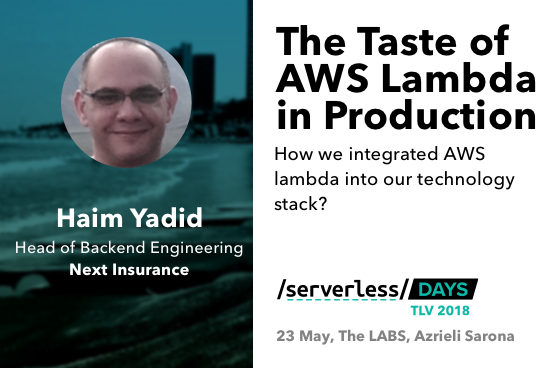
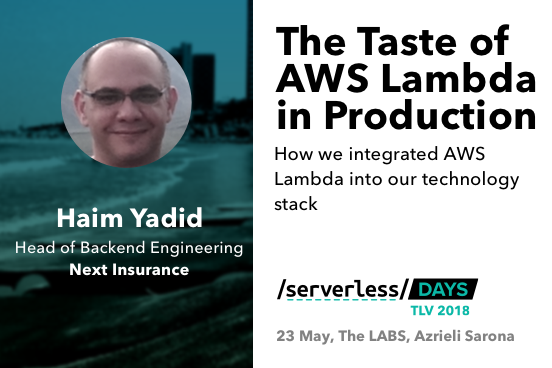
Add Eduardo's session

Changed region(s): [[0.4928, 0.4484, 0.9547, 0.538], [0.5851, 0.538, 0.6159, 0.5679]]

diff --git a/src/html/sessions/eduardo-laureano-real-world-serverless-patterns-and-caveats.html b/src/html/sessions/eduardo-laureano-real-world-serverless-patterns-and-caveats.html
@@ -3,7 +3,7 @@
     <head>
         <title>Serverless Days TLV</title>
         <meta charset="utf-8">
-        <meta name="description" content="Haim Yadid - The Taste of AWS Lambda in Production - How we integrated AWS Lambda into our technology stack">
+        <meta name="description" content="Eduardo Laureano - Real world serverless patterns and caveats - Learn from enterprise customers production examples how to leverage serverless in your applications">
 
         <!-- Global site tag (gtag.js) - Google Analytics -->
         <script async src="https://www.googletagmanager.com/gtag/js?id=UA-100715288-4"></script>
@@ -27,26 +27,26 @@
         </style>
 
         <!-- Alternative URLs: serverless.org.il, serverlessdaystlv.io -->
-        <link rel="canonical" href="https://tlv.serverlessdays.io/sessions/haim-yadid-the-taste-of-aws-lambda-in-production.html" />
+        <link rel="canonical" href="https://tlv.serverlessdays.io/sessions/eduardo-laureano-real-world-serverless-patterns-and-caveats.html" />
 
         <!-- Facebook metadata -->
-        <meta property="og:title"        content="Haim Yadid - The Taste of AWS Lambda in Production"/>
+        <meta property="og:title"        content="Eduardo Laureano - Real world serverless patterns and caveats"/>
         <meta property="og:type"         content="website" />
-        <meta property="og:description"  content="How we integrated AWS Lambda into our technology stack"/>
-        <meta property="og:image"        content="https://tlv.serverlessdays.io/static/sharing-images/haim-yadid-the-taste-of-aws-lambda-in-production-facebook-sharing-image.png">
+        <meta property="og:description"  content="Learn from enterprise customers production examples how to leverage serverless in your applications"/>
+        <meta property="og:image"        content="https://tlv.serverlessdays.io/static/sharing-images/eduardo-laureano-real-world-serverless-patterns-and-caveats-facebook-sharing-image.png">
         <meta property="fb:app_id"       content="166257407404434"/>
-        <meta property="og:url"          content="https://tlv.serverlessdays.io/sessions/haim-yadid-the-taste-of-aws-lambda-in-production.html"/>
-        <meta property="og:image:alt"    content="Haim Yadid - The Taste of AWS Lambda in Production"/>
+        <meta property="og:url"          content="https://tlv.serverlessdays.io/sessions/eduardo-laureano-real-world-serverless-patterns-and-caveats.html"/>
+        <meta property="og:image:alt"    content="Eduardo Laureano - Real world serverless patterns and caveats"/>
         <meta property="og:site_name"    content="Serverless Days TLV" />
         <meta property="og:image:width"  content="1200" />
         <meta property="og:image:height" content="627" />
 
 
         <!-- Twitter metadata -->
-        <meta name="twitter:title"       content="Haim Yadid - The Taste of AWS Lambda in Production">
+        <meta name="twitter:title"       content="Eduardo Laureano - Real world serverless patterns and caveats">
         <meta name="twitter:site"        content="@SrvrlessDaysTLV">
-        <meta name="twitter:description" content="How we integrated AWS Lambda into our technology stack"/>
-        <meta name="twitter:image"       content="https://tlv.serverlessdays.io/static/sharing-images/haim-yadid-the-taste-of-aws-lambda-in-production-twitter-sharing-image.png">
+        <meta name="twitter:description" content="Learn from enterprise customers production examples how to leverage serverless in your applications"/>
+        <meta name="twitter:image"       content="https://tlv.serverlessdays.io/static/sharing-images/eduardo-laureano-real-world-serverless-patterns-and-caveats-twitter-sharing-image.png">
         <meta name="twitter:card"        content="summary_large_image"/>
 
         <!-- JSON-LD for search engines -->
@@ -88,8 +88,8 @@
                "performer":[
                   {
                      "@type":"Person",
-                     "image":"https://tlv.serverlessdays.io/static/profile-images/haim-yadid-profile.jpg",
-                     "name":"Haim Yadid",
+                     "image":"https://tlv.serverlessdays.io/static/profile-images/eduardo-laureano-profile.jpg",
+                     "name":"Eduardo Laureano",
                   }
                ]
             }
@@ -159,20 +159,20 @@
 
         <div id="session" class="relative w-100 bg-black-80 pt2 pt0-ns mt0">
             <div class="mw6 mw7-ns center avenir near-white pt3 pt4-ns ph2 pb2">
-                <h2 class="f3 f2-ns tl">Haim Yadid: The Taste of AWS Lambda in Production</h2>
+                <h2 class="f3 f2-ns tl">Eduardo Laureano: Real world serverless patterns and caveats</h2>
 
                 <div class="mw9 center ph3-ns">
                     <div class="cf ph2-ns">
                         <div class="fl w-100 w-50-ns pa2" style="max-width: 300px; min-width: 300px">
                             <div class="pv4">
-                                <img src="../static/profile-images/haim-yadid-profile.jpg" alt="Haim Yadid">
+                                <img src="../static/profile-images/eduardo-laureano-profile.jpg" alt="Eduardo Laureano">
                             </div>
                         </div>
                         <div class="fl w-100 w-50-ns pa2">
                             <div class="pv4">
-                                <h2>Haim Yadid, Head of Backend Engineering at Next Insurance </h2>
+                                <h2>Eduardo Laureano, Principal PM Lead @ Azure Functions</h2>
                                 <p class="lh-copy measure f5 white lh-copy">
-                                   A software engineer with over 25 years of experience in various technology fields: software development, team management, software architecture, HPC and algorithmic research. Currently leading the backend engineering group in Next Insurance. On my spare time I am also one of the organizers of Java.IL, the Israeli Java user group.
+                                   Beyond building serverless products at Azure, Eduardo has been at Microsoft for over 15 years, on several services such as Bing (building ML classifiers) and many others. Also swims, bikes and runs occasionally :-)
                                 </p>
                             </div>
                         </div>
@@ -180,10 +180,11 @@
                 </div>   
 
 
-                <h3 class="lh-copy">How we integrated AWS Lambda into our technology stack</h3>
-                <p class="f4 lh-copy">In Next insurance we use micro service architecture over AWS. A year ago we have introduced AWS lambda into our stack. The majority of our code still deployed as services, however, we already have production functionality deployed as functions. In this talk I will describe the way we do it. I will cover topics such as deployment, logging, configuration,DB access,  etc.
-</p>
-                <img src="https://tlv.serverlessdays.io/static/sharing-images/haim-yadid-the-taste-of-aws-lambda-in-production-facebook-sharing-image.png" alt="Haim Yadid">
+                <h3 class="lh-copy">Learn from enterprise customers production examples how to leverage serverless in your applications</h3>
+                <p class="f4 lh-copy">The cloud application development world has been adopting serverless very rapidly in various eclectic scenarios. Companies have been using serverless in many innovative, sometimes surprising, ways. There are places where serverless is a perfect fit, and many others where it works best combined with non-serverless components. In this session, we’ll analyze real-world usage of serverless in a few architectures used by Azure customers. 
+
+The main serverless technologies being highlighted are Azure Functions, Logic Apps and Event Grid.</p>
+                <img src="https://tlv.serverlessdays.io/static/sharing-images/eduardo-laureano-real-world-serverless-patterns-and-caveats-facebook-sharing-image.png" alt="Eduardo Laureano">
             </div>
         </div>   
 

diff --git a/src/html/index.html b/src/html/index.html
@@ -345,7 +345,7 @@
                                 <a href="https://tlv.serverlessdays.io/sessions/haim-yadid-the-taste-of-aws-lambda-in-production.html" class="link dim blue"><h1>The Taste of AWS Lambda in Production</h1></a>
 
                                 <h4>Haim Yadid, Head of Backend Engineering at Next Insurance </h4>
-                                <p>How we integrated AWS lambda into our technology stack?</p>
+                                <p>How we integrated AWS Lambda into our technology stack</p>
                             </td>
                             <td width="30%">
 
@@ -396,6 +396,28 @@
                                 <div class="w-25 pa3 mr2" style="min-width: 300px; min-width: 300px">
                                     <a href="https://tlv.serverlessdays.io/sessions/shimon-tolts-monolith-to-serverless.html">
                                         <img src="https://tlv.serverlessdays.io/static/profile-images/shimon-tolts-profile.jpg" alt="Shimon Tolts">
+                                    </a>
+                                </div>
+                            </td> 
+                        </tr>
+                    </table>
+                </div>
+                
+                <div class="pa2 mr2">
+
+                    <table style="width:100%">
+                        <tr>
+                            <td>
+                                <a href="https://tlv.serverlessdays.io/sessions/eduardo-laureano-real-world-serverless-patterns-and-caveats.html" class="link dim blue"><h1>Real world serverless patterns and caveats</h1></a>
+
+                                <h4>Eduardo Laureano, Principal PM Lead @ Azure Functions</h4>
+                                <p>Learn from enterprise customers production examples how to leverage serverless in your applications</p>
+                            </td>
+                            <td width="30%">
+
+                                <div class="w-25 pa3 mr2" style="min-width: 300px; min-width: 300px">
+                                    <a href="https://tlv.serverlessdays.io/sessions/eduardo-laureano-real-world-serverless-patterns-and-caveats.html">
+                                        <img src="https://tlv.serverlessdays.io/static/profile-images/eduardo-laureano-profile.jpg" alt="Eduardo Laureano">
                                     </a>
                                 </div>
                             </td> 

diff --git a/src/html/sessions/shimon-tolts-monolith-to-serverless.html b/src/html/sessions/shimon-tolts-monolith-to-serverless.html
@@ -181,7 +181,7 @@
 
 
                 <h3 class="lh-copy">The cultural shift from Monolith to Serverless</h3>
-                <p class="f4 lh-copy">In this session you will learn about the cultural shift that happened by the transition from building a Monolith application with a waterfall methodology to Serverless multi-disciplinar Agile teams.</p>
+                <p class="f4 lh-copy">In this session you will learn about the cultural shift that happened by the transition from building a Monolith application with a waterfall methodology to Serverless multi-disciplinary Agile teams.</p>
                 <img src="https://tlv.serverlessdays.io/static/sharing-images/shimon-tolts-monolith-to-serverless-facebook-sharing-image.png" alt="Shimon Tolts">
             </div>
         </div>   

diff --git a/src/html/sessions/sessions.html b/src/html/sessions/sessions.html
@@ -10,5 +10,6 @@
     <li><a href="https://tlv.serverlessdays.io/sessions/haim-yadid-the-taste-of-aws-lambda-in-production.html">Haim Yadid</a></li>
     <li><a href="https://tlv.serverlessdays.io/sessions/ran-ribenzaft-monitoring-serverless-applications.html">Ran Ribenzaft</a></li>
     <li><a href="https://tlv.serverlessdays.io/sessions/shimon-tolts-monolith-to-serverless.html">Shimon Tolts</a></li>
+    <li><a href="https://tlv.serverlessdays.io/sessions/eduardo-laureano-real-world-serverless-patterns-and-caveats.html">Eduardo Laureano</a></li>
     </ul>
 </body>

diff --git a/src/sessions.py b/src/sessions.py
@@ -79,6 +79,7 @@ with open('html/sessions/sessions.jinja2', encoding='utf-8') as f:
 # Create session webpages
 for session in SESSIONS:
     local_file_path = 'html/sessions/{}.html'.format(session['url'])
+    print('{}: {}'.format(session['name'], session['session_title']))
     with open(local_file_path, 'w', encoding='utf-8') as f:
         f.write(template.render(session))
 
